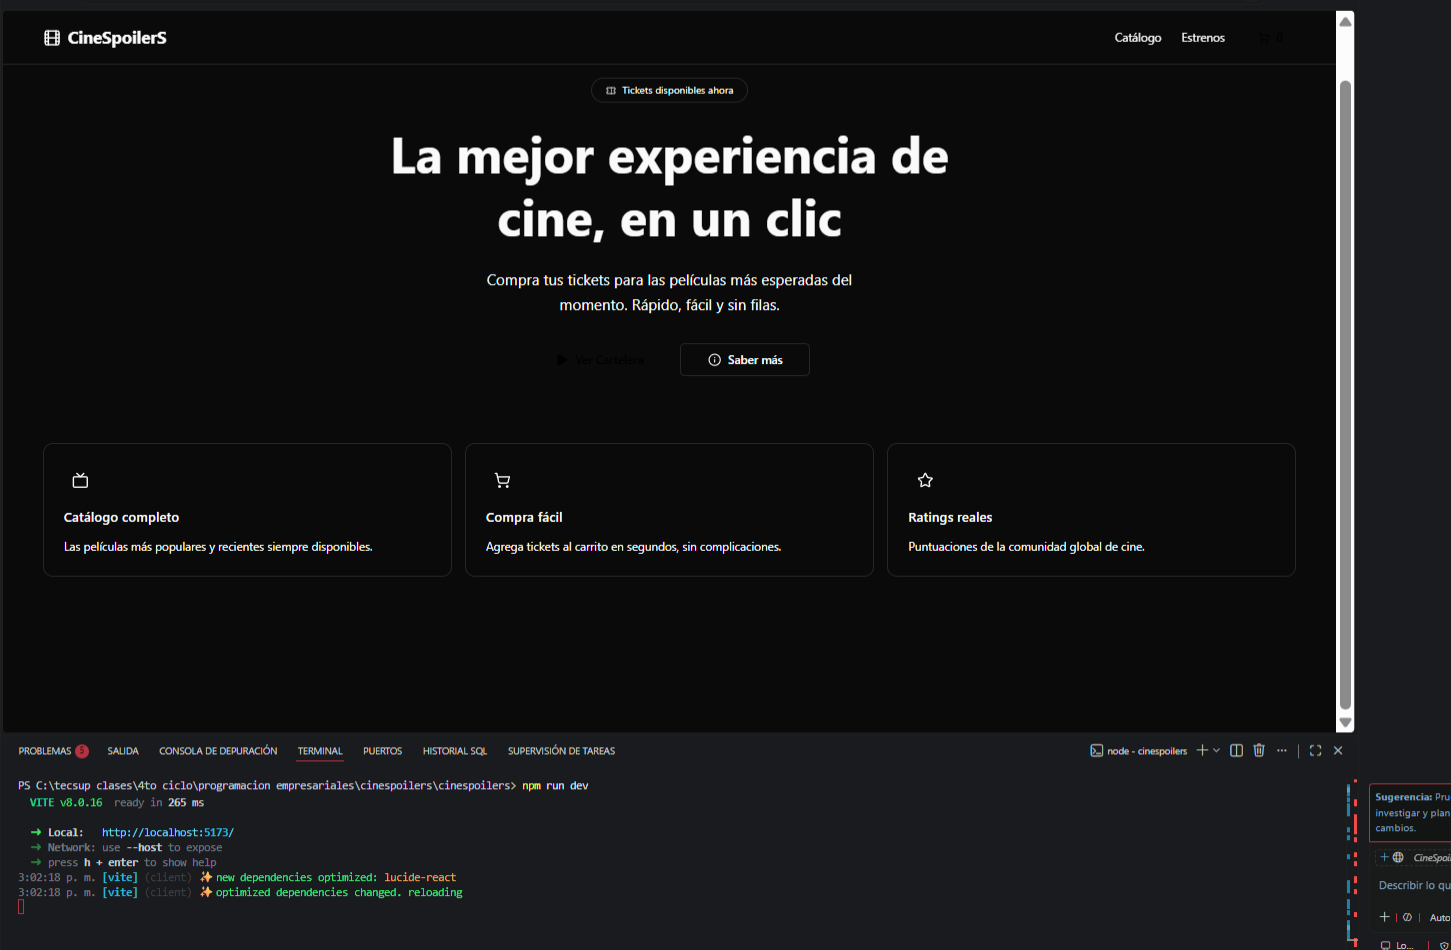
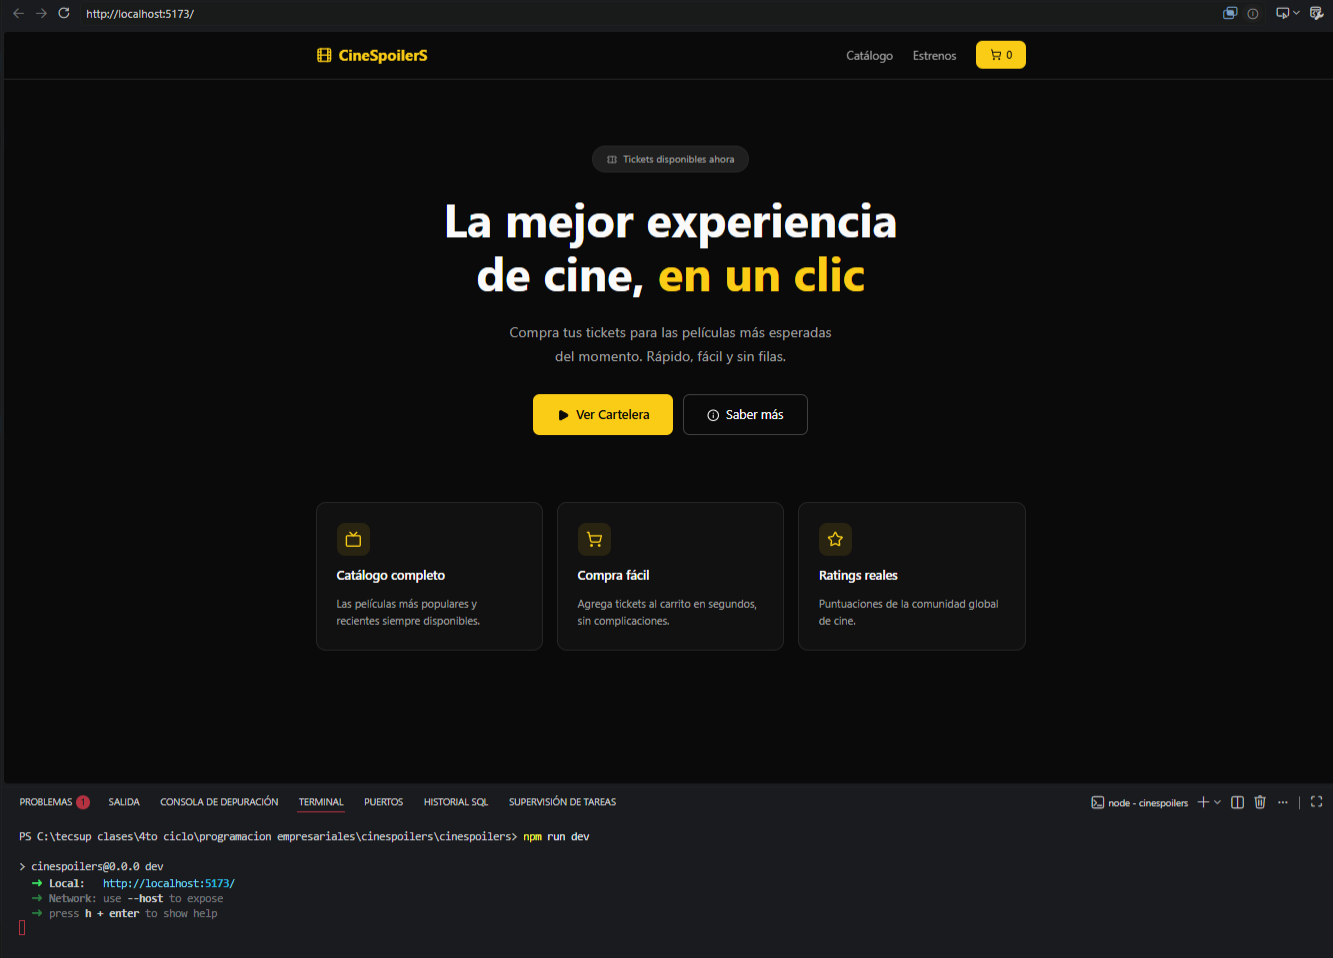
feat: add landing page layout with hero and features section

diff --git a/src/pages/HomePage.tsx b/src/pages/HomePage.tsx
@@ -1,6 +1,4 @@
 import { Tv, ShoppingCart, Star, Ticket, Play, Info } from 'lucide-react'
-import { Button } from '@/components/ui/button'
-import { Badge } from '@/components/ui/badge'
 
 const features = [
   { icon: Tv, title: 'Catálogo completo', desc: 'Las películas más populares y recientes siempre disponibles.' },
@@ -10,48 +8,42 @@ const features = [
 
 function HomePage() {
   return (
-    <div className="min-h-screen">
+    <div style={{ minHeight: '100vh', background: '#0a0a0a' }}>
       {/* Hero */}
-      <section className="container mx-auto px-4 py-20 flex flex-col items-center text-center gap-6">
-        <div className="flex items-center gap-2 bg-secondary text-muted-foreground text-xs px-4 py-1.5 rounded-full border border-border">
+      <section style={{ maxWidth: 900, margin: '0 auto', padding: '80px 24px', display: 'flex', flexDirection: 'column', alignItems: 'center', textAlign: 'center', gap: 24 }}>
+        <div style={{ display: 'flex', alignItems: 'center', gap: 8, background: '#1f1f1f', border: '1px solid #262626', color: '#a1a1a1', fontSize: 12, padding: '6px 16px', borderRadius: 99 }}>
           <Ticket size={12} />
           Tickets disponibles ahora
         </div>
 
-        <h1 className="text-6xl font-bold leading-tight max-w-2xl">
+        <h1 style={{ fontSize: 56, fontWeight: 700, lineHeight: 1.15, color: '#fafafa', maxWidth: 600, margin: 0 }}>
           La mejor experiencia de cine,{' '}
-          <span className="text-primary">en un clic</span>
+          <span style={{ color: '#facc15' }}>en un clic</span>
         </h1>
 
-        <p className="text-muted-foreground text-lg max-w-md leading-relaxed">
-          Compra tus tickets para las películas más esperadas del momento.
-          Rápido, fácil y sin filas.
+        <p style={{ color: '#a1a1a1', fontSize: 17, maxWidth: 400, lineHeight: 1.7, margin: 0 }}>
+          Compra tus tickets para las películas más esperadas del momento. Rápido, fácil y sin filas.
         </p>
 
-        <div className="flex gap-3 mt-2">
-          <Button size="lg" className="gap-2 bg-primary text-black hover:bg-primary/90 font-semibold px-8">
-            <Play size={16} fill="currentColor" />
-            Ver Cartelera
-          </Button>
-          <Button size="lg" variant="outline" className="gap-2 px-8">
-            <Info size={16} />
-            Saber más
-          </Button>
+        <div style={{ display: 'flex', gap: 12, marginTop: 8 }}>
+          <button style={{ display: 'flex', alignItems: 'center', gap: 8, background: '#facc15', color: '#0a0a0a', border: 'none', borderRadius: 8, padding: '12px 28px', fontSize: 15, fontWeight: 600, cursor: 'pointer' }}>
+            <Play size={15} fill="#0a0a0a" /> Ver Cartelera
+          </button>
+          <button style={{ display: 'flex', alignItems: 'center', gap: 8, background: 'transparent', color: '#fafafa', border: '1px solid #404040', borderRadius: 8, padding: '12px 28px', fontSize: 15, cursor: 'pointer' }}>
+            <Info size={15} /> Saber más
+          </button>
         </div>
       </section>
 
       {/* Features */}
-      <section className="container mx-auto px-4 pb-20 grid grid-cols-1 md:grid-cols-3 gap-4">
+      <section style={{ maxWidth: 900, margin: '0 auto', padding: '0 24px 80px', display: 'grid', gridTemplateColumns: 'repeat(3, 1fr)', gap: 16 }}>
         {features.map(({ icon: Icon, title, desc }) => (
-          <div
-            key={title}
-            className="rounded-xl border border-border bg-card p-6 flex flex-col gap-3 hover:border-primary/50 transition-colors"
-          >
-            <div className="w-10 h-10 rounded-lg bg-primary/10 flex items-center justify-center">
-              <Icon size={20} className="text-primary" />
+          <div key={title} style={{ background: '#111', border: '1px solid #262626', borderRadius: 12, padding: 24, display: 'flex', flexDirection: 'column', gap: 12 }}>
+            <div style={{ width: 40, height: 40, borderRadius: 10, background: 'rgba(250,204,21,0.1)', display: 'flex', alignItems: 'center', justifyContent: 'center' }}>
+              <Icon size={20} color="#facc15" />
             </div>
-            <p className="font-semibold text-foreground">{title}</p>
-            <p className="text-muted-foreground text-sm leading-relaxed">{desc}</p>
+            <p style={{ fontWeight: 600, color: '#fafafa', margin: 0, fontSize: 15 }}>{title}</p>
+            <p style={{ color: '#a1a1a1', fontSize: 13, lineHeight: 1.6, margin: 0 }}>{desc}</p>
           </div>
         ))}
       </section>

diff --git a/src/components/layout/Navbar.tsx b/src/components/layout/Navbar.tsx
@@ -1,25 +1,19 @@
 import { Film, ShoppingCart } from 'lucide-react'
-import { Button } from '@/components/ui/button'
 
 function Navbar() {
   return (
-    <header className="border-b border-border sticky top-0 z-50 bg-background/80 backdrop-blur-sm">
-      <div className="container mx-auto px-4 h-16 flex items-center justify-between">
-        <div className="flex items-center gap-2 text-primary font-bold text-xl">
-          <Film size={22} />
+    <header style={{ borderBottom: '1px solid #262626', position: 'sticky', top: 0, zIndex: 50, background: 'rgba(10,10,10,0.85)', backdropFilter: 'blur(12px)' }}>
+      <div style={{ maxWidth: 900, margin: '0 auto', padding: '0 24px', height: 56, display: 'flex', alignItems: 'center', justifyContent: 'space-between' }}>
+        <div style={{ display: 'flex', alignItems: 'center', gap: 8, color: '#facc15', fontWeight: 700, fontSize: 18 }}>
+          <Film size={20} />
           CineSpoilerS
         </div>
-        <nav className="flex items-center gap-6">
-          <span className="text-muted-foreground text-sm hover:text-foreground cursor-pointer transition-colors">
-            Catálogo
-          </span>
-          <span className="text-muted-foreground text-sm hover:text-foreground cursor-pointer transition-colors">
-            Estrenos
-          </span>
-          <Button size="sm" className="gap-2 bg-primary text-black hover:bg-primary/90 font-semibold">
-            <ShoppingCart size={14} />
-            0
-          </Button>
+        <nav style={{ display: 'flex', alignItems: 'center', gap: 24 }}>
+          <span style={{ color: '#a1a1a1', fontSize: 14, cursor: 'pointer' }}>Catálogo</span>
+          <span style={{ color: '#a1a1a1', fontSize: 14, cursor: 'pointer' }}>Estrenos</span>
+          <button style={{ display: 'flex', alignItems: 'center', gap: 6, background: '#facc15', color: '#0a0a0a', border: 'none', borderRadius: 8, padding: '7px 16px', fontSize: 13, fontWeight: 600, cursor: 'pointer' }}>
+            <ShoppingCart size={14} /> 0
+          </button>
         </nav>
       </div>
     </header>